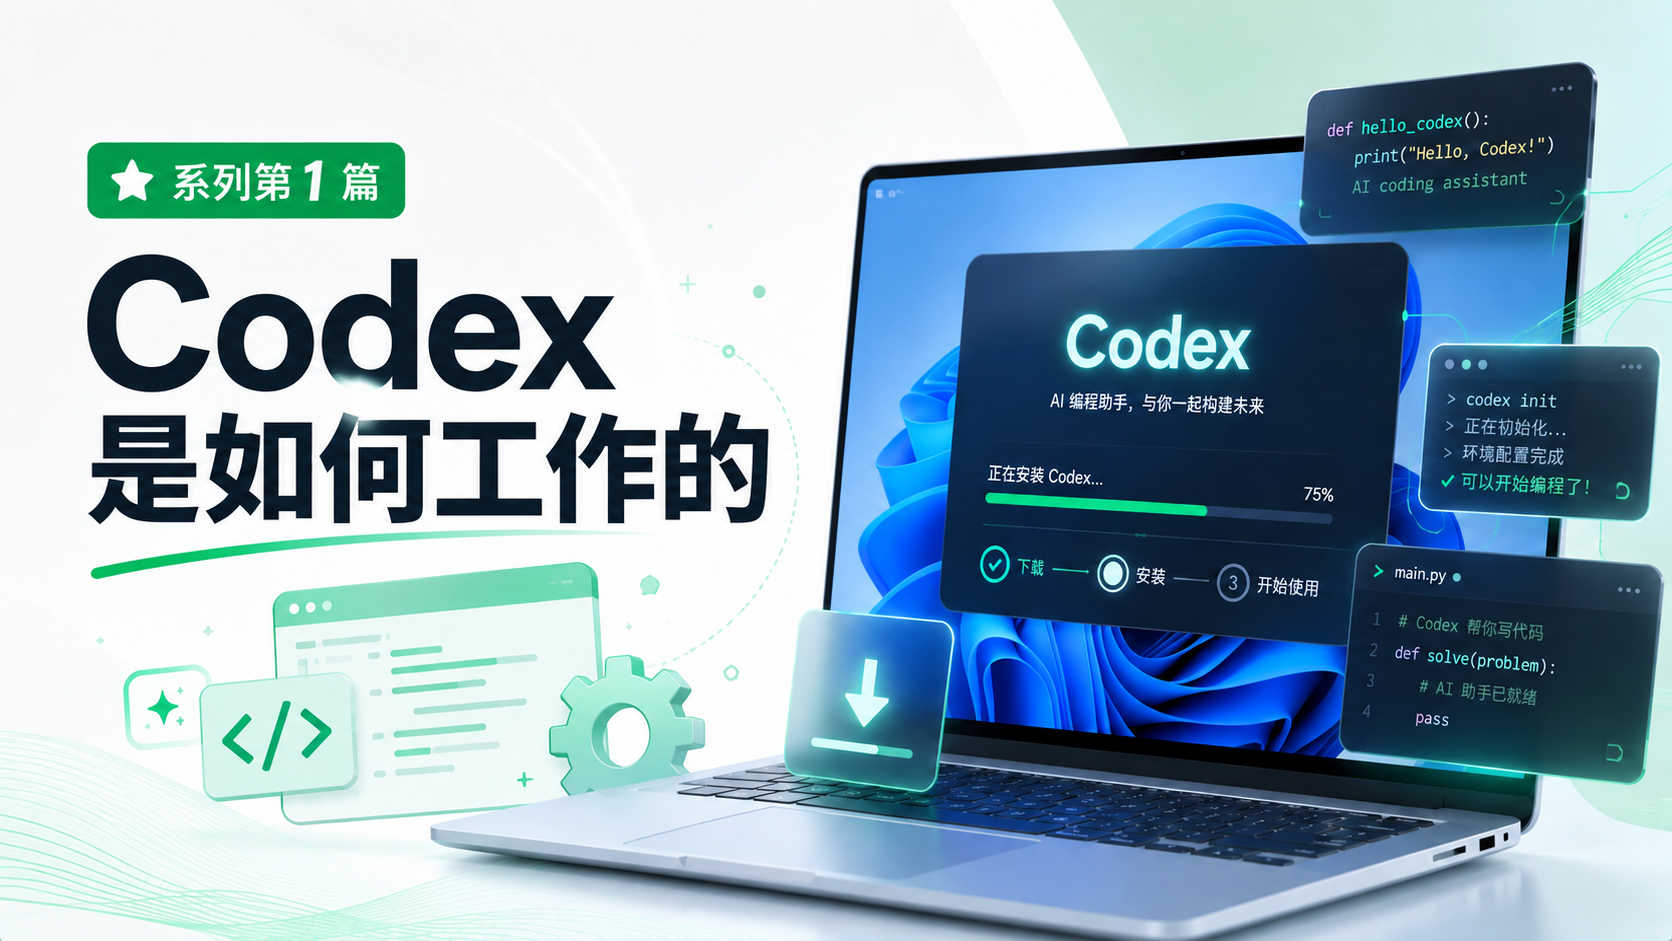
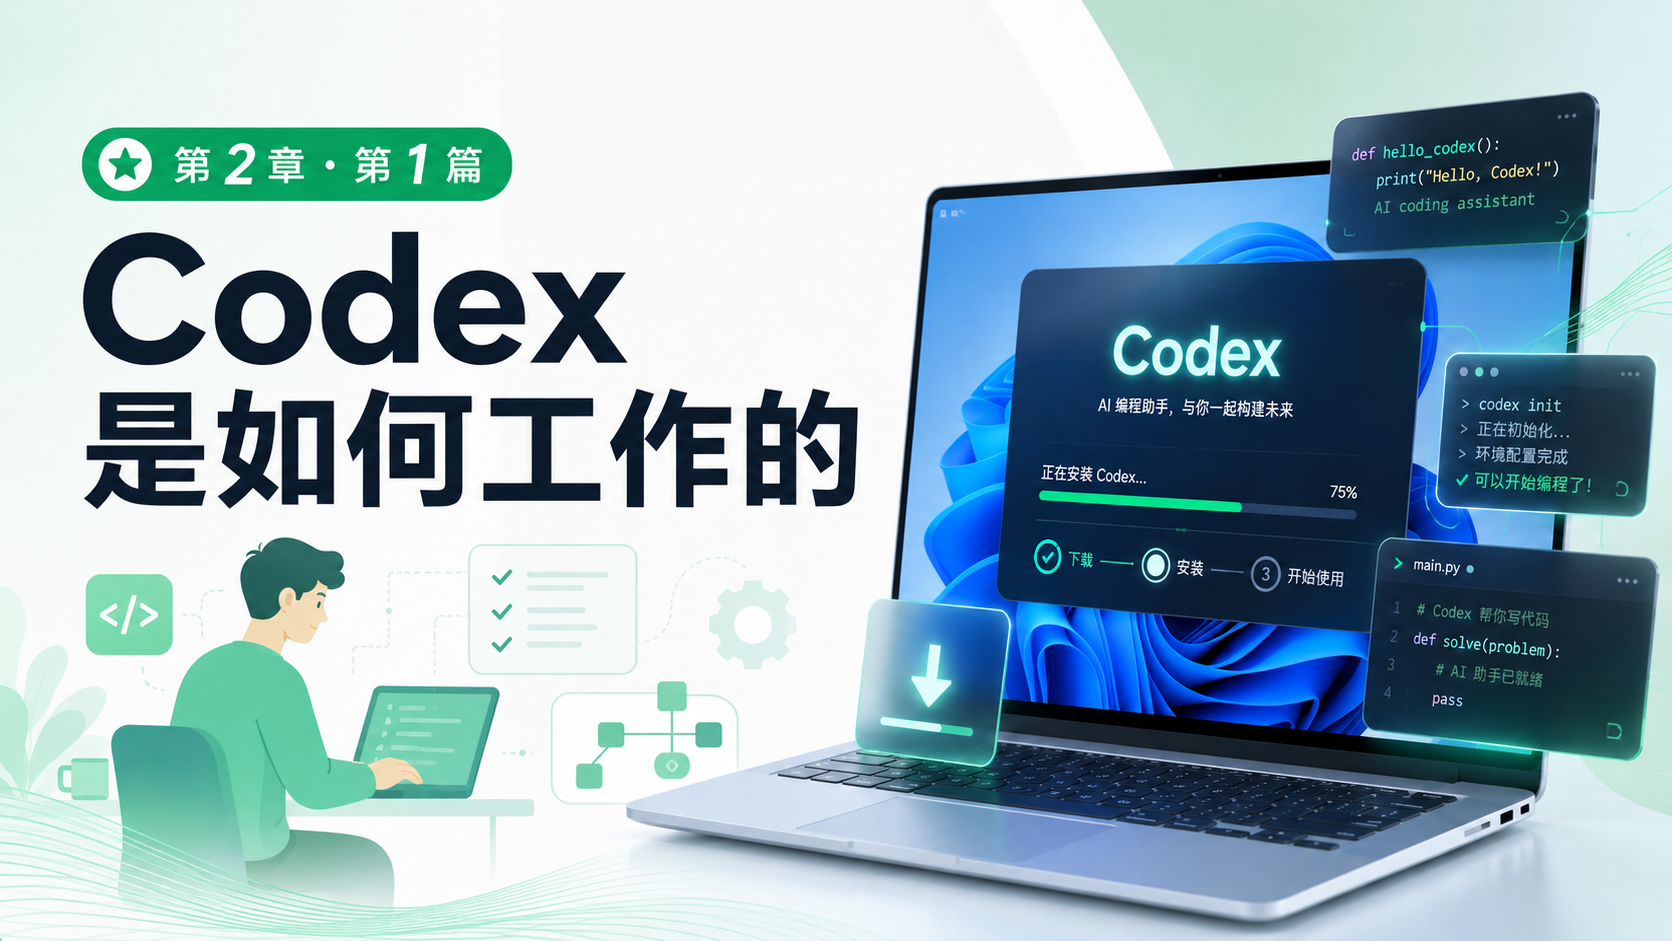
feat(skills): 支持绿色封面章节徽标

diff --git a/skills/green-series-cover/SKILL.md b/skills/green-series-cover/SKILL.md
@@ -1,6 +1,6 @@
 ---
 name: green-series-cover
-description: Generate Chinese green-series article covers from a fixed mint-green reference composition, adapting the left information panel to a supplied title and issue number. Use when creating, revising, or batch-generating this publication's green WeChat public-account cover series with HiAPI image2.0.
+description: Generate Chinese green-series article covers from a fixed mint-green reference composition, adapting the left information panel to a supplied title, issue number, and optional chapter number. Use when creating, revising, or batch-generating this publication's green WeChat public-account cover series with HiAPI image2.0.
 ---
 
 # Green Series Cover
@@ -14,6 +14,8 @@ Before generating, ask for both values if they were not supplied:
 - `title`: the article title, in Chinese when appropriate.
 - `issue`: the series issue number, a positive integer.
 
+Use optional `chapter` when numbering restarts inside each chapter or the cover needs to stay visually distinct from another chapter. Without it, the badge remains `系列第 <issue> 篇` for backward compatibility.
+
 Do not silently invent either value. Preserve the user's title verbatim in the prompt; do not rewrite its wording. If the title is long, request a shorter display title or use a deliberate two-line layout rather than shrinking it until unreadable.
 
 ## Generate
@@ -24,11 +26,17 @@ Run the bundled script from the skill directory:
 node scripts/generate-cover.mjs --title "Windows 安装 Codex" --issue 1 --output .\cover.png
 ```
 
+For a chapter-specific badge:
+
+```powershell
+node scripts/generate-cover.mjs --title "Codex 是如何工作的" --chapter 2 --issue 1 --output .\cover.png
+```
+
 The script reads `HIAPI_API_KEY` from the current environment, uses `gpt-image-2/image-to-image` by default, encodes `assets/reference-cover.png` as a data URL, submits an asynchronous HiAPI task, polls it, and downloads the first output. Never print or commit the API key. Override the reference with `--reference <path>` only when the user explicitly supplies a replacement.
 
 The generated prompt must require:
 
-- exact visible issue badge text `系列第 <issue> 篇`;
+- exact visible badge text `系列第 <issue> 篇`, or `第 <chapter> 章 · 第 <issue> 篇` when `--chapter` is supplied;
 - the supplied title as the dominant left headline;
 - a left-side illustration or motif that reflects the article topic;
 - no extra logos, watermark, QR code, invented claims, or unrelated text;
